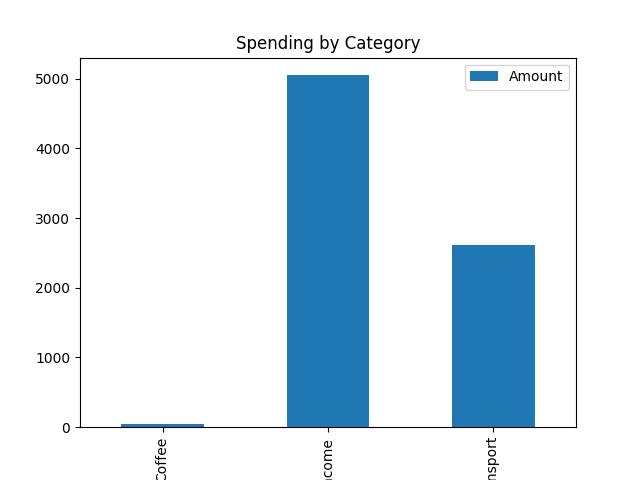
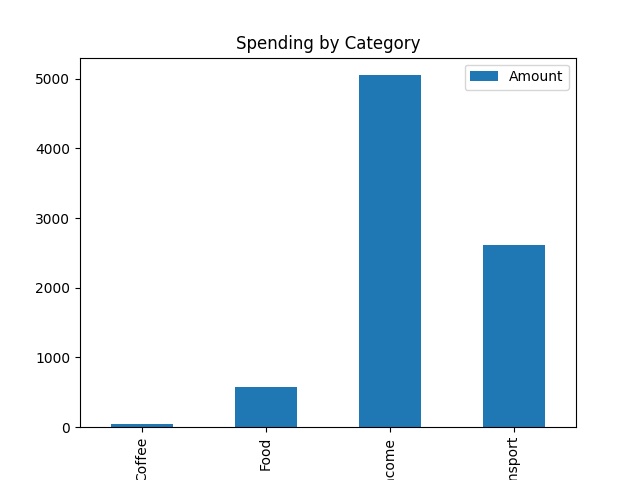
addition of new data and category,

diff --git a/finance_analyzer/script/transform.py b/finance_analyzer/script/transform.py
@@ -7,6 +7,10 @@ def categorize(description):
         return 'Coffee'
     elif 'salary' in description.lower():
         return 'Income'
+    elif 'fruit' in description.lower():
+        return 'Food'
+    elif 'food' in description.lower():
+        return 'Food'
     elif 'uber' in description.lower():
         return 'Transport'
     else:
